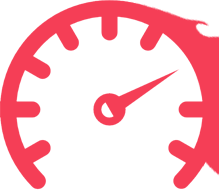
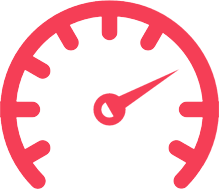
1

diff --git a/soyuznet/index.html b/soyuznet/index.html
@@ -18,7 +18,7 @@
 <li class="nav-item"><a class="nav-link" href="#tariffs">Тарифы</a></li>
 <li class="nav-item"><a class="nav-link" href="#office">Наш офис</a></li>
 <li class="nav-item"><a class="nav-link" href="https://city24.ua/Internet/SoyuzNet-">Мгновенная оплата</a></li>
-<li class="nav-item nav-item-red"><a class="nav-link" href="#" data-toggle="modal" data-target="#login"><i class="fas fa-user-tie"></i> Личный кабинет</a></li>
+<li class="nav-item nav-item-red"><a class="nav-link" href="#login"><i class="fas fa-user-tie"></i> Личный кабинет</a></li>
 </ul>
 <span class="navbar-text">
 <div class="phone">
@@ -27,33 +27,6 @@
 </div>
 </nav>
 
-<div class="modal fade" id="login" tabindex="-1" role="dialog" aria-labelledby="loginTitle" aria-hidden="true">
-<div class="modal-dialog modal-dialog-centered modal-sm" role="document">
-<div class="modal-content">
-<div class="modal-header">
-<h5 class="modal-title" id="exampleModalLongTitle">Войти в кабинет</h5>
-<button type="button" class="close" data-dismiss="modal" aria-label="Close">
-<span aria-hidden="true">&times;</span>
-</button>
-</div>
-<div class="modal-body">
-<form>
-<div class="form-group">
-<input type="email" class="form-control" id="exampleInputEmail1" aria-describedby="emailHelp" placeholder="Номер договора">
-</div>
-<div class="form-group">
-<input type="password" class="form-control" id="exampleInputPassword1" placeholder="Пароль">
-</div>
-
-</div>
-<div class="modal-footer">
-<button type="button" class="btn btn-primary btn-block">Войти</button>
-</form>
-</div>
-</div>
-</div>
-</div>
-
 <div id="slider" class="carousel slide" data-ride="carousel">
 <ol class="carousel-indicators">
 <li data-target="#slider" data-slide-to="0" class="active"></li>
@@ -61,14 +34,14 @@
 </ol>
 <div class="carousel-inner">
 <div class="carousel-item active">
-<img src="img/banner.jpg" class="d-block w-100 banner" alt="...">
+<img src="img/banner.jpg" class="d-block banner" alt="...">
 <div class="carousel-caption text-left">
 <h2>Безлимитный скоростной интернет в каждый дом!</h2>
 <p>Мы обеспечиваем связь между компьютерами абонентов и всемирной сетью, что позволяет обмениваться файлами, информацией, общаться , играть в сетевые игры смотреть кинофильмы on line в HD качестве,слушать музыку ,общаться в Skype и использовать многие другие сервисы.</p>
 </div>
 </div>
 <div class="carousel-item">
-<img src="img/banner2.jpg" class="d-block w-100 banner" alt="...">
+<img src="img/banner2.jpg" class="d-block banner" alt="...">
 <div class="carousel-caption text-left">
 <h2>Интерактивное Телевидение!</h2>
 <p>С 1 Июня Мы запускаем Интерактивное Телевидения, а это более 200 телеканалов в высокой четкости с функцией паузы и перемотки эфира,а так же 5000 фильмов онлайн и все это можно подключить на вашем Smart TV телевизоре или с помощью IPTV приставки для обычных телевизоров которую можно преобрести у нас.</p>
@@ -129,7 +102,7 @@
 
 <div id="tariffs" class="tariff-bg">
 <div class="container marketing">
-<h2 class="mb-4">Наши тарифы</h2>
+<h2 class="mb-4">Тарифы для интернета</h2>
 <ul class="nav nav-tabs nav-pills justify-content-center mb-4" id="myTab" role="tablist">
 <li class="nav-item">
 <a class="nav-link active" id="voz-tab" data-toggle="tab" href="#voz" role="tab" aria-controls="voz" aria-selected="true">Вознесенск</a>
@@ -157,8 +130,8 @@
 <p>100 грн/месяц</p>
 </div>
 <div class="col-lg-3">
-<img class="tariff-icon-fire" src="img/tariff-4_fire.svg">
-<img class="mb-4 tariff-icon" src="img/tariff-4.svg">
+<img class="tariff-icon-fire" src="img/tariff-4_fire.png">
+<img class="mb-4 tariff-icon" src="img/tariff-4.png">
 <div class="tariff-4">10 mbit/сек</div>
 <p>160 грн/месяц</p>
 </div>
@@ -182,8 +155,8 @@
 <p>200 грн/месяц</p>
 </div>
 <div class="col-lg-3">
-<img class="tariff-icon-fire" src="img/tariff-4_fire.svg">
-<img class="mb-4 tariff-icon" src="img/tariff-4.svg">
+<img class="tariff-icon-fire" src="img/tariff-4_fire.png">
+<img class="mb-4 tariff-icon" src="img/tariff-4.png">
 <div class="tariff-4">5 mbit/сек</div>
 <p>250 грн/месяц</p>
 </div>
@@ -193,6 +166,59 @@
 <p>UPLOAD во всех тарифах составляет 1 MBit/сек</p>
 </div>
 </div>
+
+<div class="tariff-2-bg">
+<div class="container">
+<center><h2 class="mb-5">Тарифы для телевидения</h2></center>
+<div class="container">
+<div class="card-deck mb-3 text-center">
+<div class="card mb-4 shadow-sm">
+<div class="card-header">
+<h4 class="my-0 font-weight-normal">Тариф "S+"</h4>
+</div>
+<div class="card-body">
+<h1 class="card-title pricing-card-title">47грн<small class="text-muted">/месяц</small></h1>
+<ul class="list-unstyled mt-3 mb-4">
+<li>147 каналов</li>
+<li>Фильмов - 3 000</li>
+<br>
+</ul>
+<a href="https://trinity-tv.net/tv_list_all.html" class="btn btn-lg btn-block btn-primary">Подробнее</a>
+</div>
+</div>
+<div class="card mb-4 shadow-sm">
+<div class="card-header">
+<h4 class="my-0 font-weight-normal">Тариф "M+"</h4>
+</div>
+<div class="card-body">
+<h1 class="card-title pricing-card-title">97 грн<small class="text-muted">/месяц</small></h1>
+<ul class="list-unstyled mt-3 mb-4">
+<li>Каналов - 209</li>
+<li>Каналов HD - 33</li>
+<li>Фильмов - 5 000</li>
+</ul>
+<a href="https://trinity-tv.net/tv_list_all.html" class="btn btn-lg btn-block btn-primary">Подробнее</a>
+</div>
+</div>
+<div class="card mb-4 shadow-sm">
+<div class="card-header">
+<h4 class="my-0 font-weight-normal">Тариф "L+"</h4>
+</div>
+<div class="card-body">
+<h1 class="card-title pricing-card-title">197 грн<small class="text-muted">/месяц</small></h1>
+<ul class="list-unstyled mt-3 mb-4">
+<li>Каналов - 225</li>
+<li>Каналов HD - 42</li>
+<li>Фильмов - 5 000</li>
+</ul>
+<a href="https://trinity-tv.net/tv_list_all.html" class="btn btn-lg btn-block btn-primary">Подробнее</a>
+</div>
+</div>
+</div>
+</div>
+</div>
+</div>
+
 <div id="office" class="office-bg">
 <div class="container">
 <div class="row">
@@ -218,7 +244,7 @@
 </div>
 </div>
 
-<div class="login mb-2">
+<div id="login" class="login mb-2">
 <div class="container">
 <center><h2 class="mb-4">Войти в личный кабинет</h2></center>
 <div class="row justify-content-md-center">
@@ -253,7 +279,6 @@
 <div class="col-lg footer-link">
 <h6>ПОЛЕЗНЫЕ ССЫЛКИ</h6>
 <li><a href="http://www.speedtest.net">Тест скорости интернета</a></li>
-<li><a href="#" data-toggle="modal" data-target="#login"> Личный кабинет</a></li>
 <li><a href="#">Скачать договор</a></li>
 </div>
 <div class="col-lg-auto">

diff --git a/soyuznet/css/main.css b/soyuznet/css/main.css
@@ -35,7 +35,7 @@ a:hover {color: #082bdb;text-decoration: none;}
 .tariff-3 {background: #38adea;color: #fff;width: 110px;margin: auto;padding: 5px;border-radius: 5px;text-transform: uppercase;margin-top: -48px;margin-bottom: 15px;}
 .tariff-4 {background: #f53e56;color: #fff;width: 110px;margin: auto;padding: 5px;border-radius: 5px;text-transform: uppercase;margin-top: -48px;margin-bottom: 15px;}
 
-.tariff-bg {background: url(../img/tariff.jpg) no-repeat;background-size: cover;background-size: 100% 100%;color: #130f40;padding-bottom: 1rem;padding-top: 2rem;}
+.tariff-bg {background: url(../img/tariff.jpg) no-repeat;background-size: cover;color: #130f40;padding-bottom: 1rem;padding-top: 2rem;}
 .tariff-bg h2 {color: #130f40;}
 .tariff-icon {width: 219px;}
 .nav-pills .nav-link.active, .nav-pills .show > .nav-link {background: #092EED;color: #fff;border: 0px;}
@@ -44,8 +44,8 @@ a:hover {color: #082bdb;text-decoration: none;}
 .btn-primary {background-color: #092EED;border: 0;color: #fff;font-weight: 500;padding: 15px 30px;border-radius: 4px;}
 .btn-primary:hover {background-color: #0354cd;}
 .form-control {background-color: #f5f5ff;font-size: 15px;border: 0px;height: 40px;}
-.office-bg {background: url(../img/officebg.jpg) no-repeat center top fixed;background-size: cover;background-size: 100% 100%;height: 320px;color: #fff;padding: 60px 0px;}
-.tariff-icon-fire {position: absolute;right: -49px;top: 36px;width: 86px;}
+.office-bg {background: url(../img/officebg.jpg) no-repeat center top fixed;background-size: cover;height: 320px;color: #fff;padding: 60px 0px;}
+.tariff-icon-fire {position: absolute;right: -16%;}
 
 .map-responsive{
     overflow:hidden;
@@ -79,6 +79,11 @@ form {margin-bottom: 0px;}
 
 .login {padding: 60px;}
 
+.tariff-2-bg {background: url(../img/tariff-2.jpg) #092EED no-repeat;background-size: cover;padding: 60px 0px;color: #fff;}
+
+.tariff-2-bg .card {border-radius: 5px;color: #6d70a6;}
+.tariff-2-bg .card-header {background-color: #fff;color: #092EED;}
+
 @media (max-width: 1200px) {
     .office-bg {height: 544px;}
     .footer {text-align: center;}
@@ -86,6 +91,14 @@ form {margin-bottom: 0px;}
     .copyright {margin-top: 30px;}
     .footer-link h6 {margin-top: 25px;}
     .footer .col-lg-auto {margin-top: 30px;}
+    .tariff-icon-fire {position: absolute;right: -32%;}
+}
+@media (max-width: 992px) {
+    .tariff-icon-fire {position: absolute;right: 24%;}
+}
+
+@media (max-width: 768px) {
+    .tariff-icon-fire {display: none;}
 }
 
 @media (min-width: 576px) {
